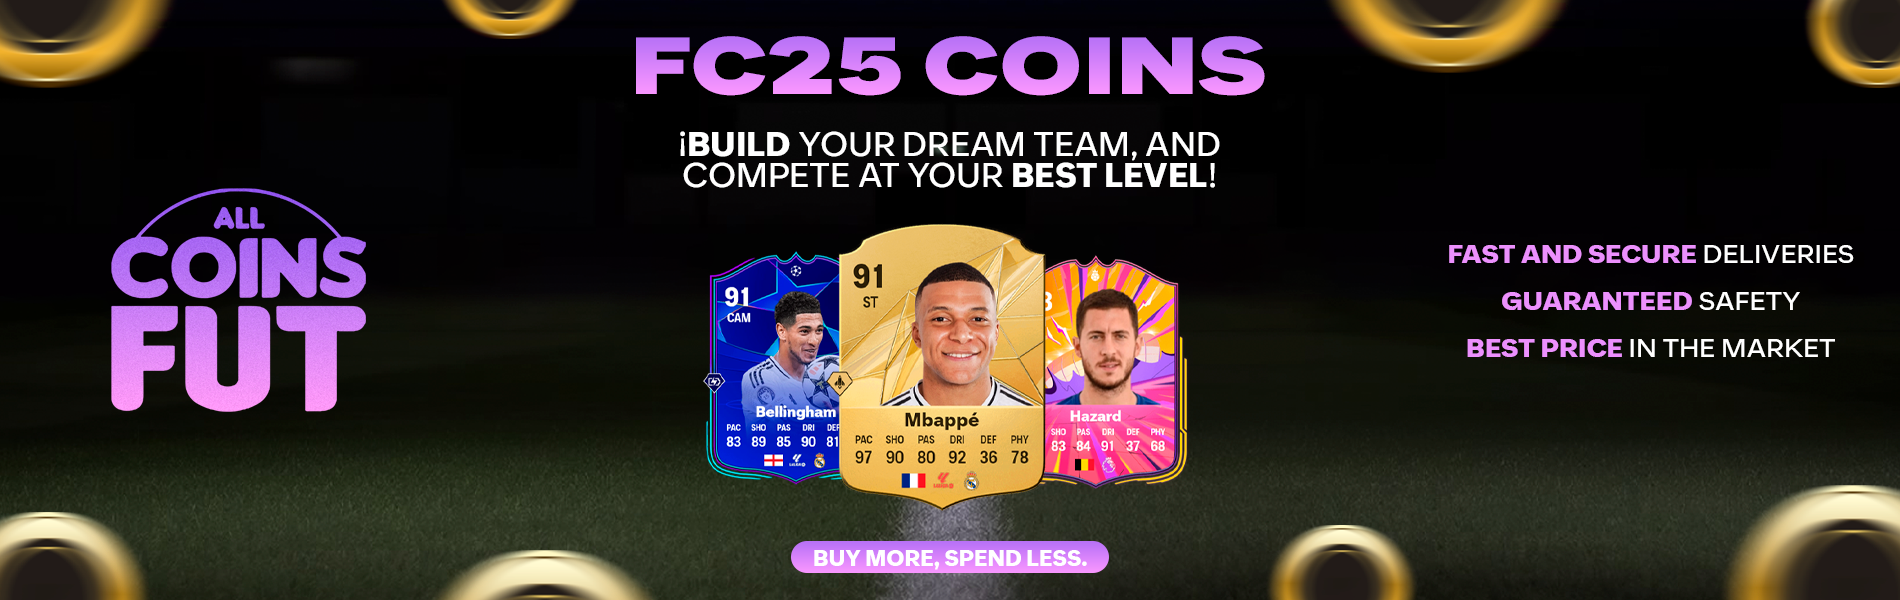
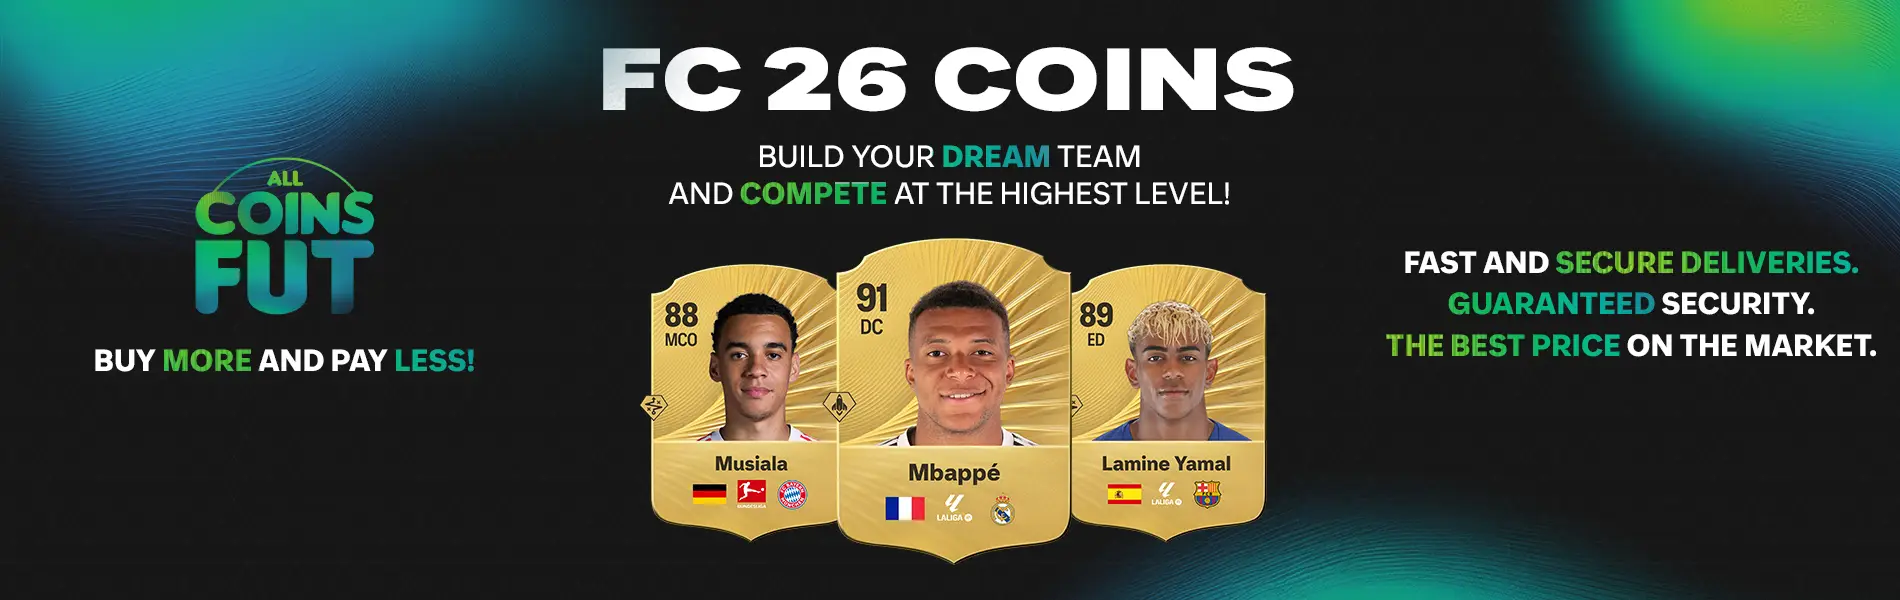
new colors

diff --git a/src/GiftLogo.js b/src/GiftLogo.js
@@ -1,5 +1,5 @@
 export default function GiftLogo() {
     return (
-        <svg width="20px" height="20px" viewBox="0 0 24 24" fill="none" xmlns="http://www.w3.org/2000/svg"><g id="SVGRepo_bgCarrier" stroke-width="0"></g><g id="SVGRepo_tracerCarrier" stroke-linecap="round" stroke-linejoin="round"></g><g id="SVGRepo_iconCarrier"> <path d="M12 7V20M12 7H8.46429C7.94332 7 7.4437 6.78929 7.07533 6.41421C6.70695 6.03914 6.5 5.53043 6.5 5C6.5 4.46957 6.70695 3.96086 7.07533 3.58579C7.4437 3.21071 7.94332 3 8.46429 3C11.2143 3 12 7 12 7ZM12 7H15.5357C16.0567 7 16.5563 6.78929 16.9247 6.41421C17.293 6.03914 17.5 5.53043 17.5 5C17.5 4.46957 17.293 3.96086 16.9247 3.58579C16.5563 3.21071 16.0567 3 15.5357 3C12.7857 3 12 7 12 7ZM5 12H19V17.8C19 18.9201 19 19.4802 18.782 19.908C18.5903 20.2843 18.2843 20.5903 17.908 20.782C17.4802 21 16.9201 21 15.8 21H8.2C7.07989 21 6.51984 21 6.09202 20.782C5.71569 20.5903 5.40973 20.2843 5.21799 19.908C5 19.4802 5 18.9201 5 17.8V12ZM4.6 12H19.4C19.9601 12 20.2401 12 20.454 11.891C20.6422 11.7951 20.7951 11.6422 20.891 11.454C21 11.2401 21 10.9601 21 10.4V8.6C21 8.03995 21 7.75992 20.891 7.54601C20.7951 7.35785 20.6422 7.20487 20.454 7.10899C20.2401 7 19.9601 7 19.4 7H4.6C4.03995 7 3.75992 7 3.54601 7.10899C3.35785 7.20487 3.20487 7.35785 3.10899 7.54601C3 7.75992 3 8.03995 3 8.6V10.4C3 10.9601 3 11.2401 3.10899 11.454C3.20487 11.6422 3.35785 11.7951 3.54601 11.891C3.75992 12 4.03995 12 4.6 12Z" stroke="#ffd500" stroke-width="2" stroke-linecap="round" stroke-linejoin="round"></path> </g></svg>
+        <svg width="20px" height="20px" viewBox="0 0 24 24" fill="none" xmlns="http://www.w3.org/2000/svg"><g id="SVGRepo_bgCarrier" stroke-width="0"></g><g id="SVGRepo_tracerCarrier" stroke-linecap="round" stroke-linejoin="round"></g><g id="SVGRepo_iconCarrier"> <path d="M12 7V20M12 7H8.46429C7.94332 7 7.4437 6.78929 7.07533 6.41421C6.70695 6.03914 6.5 5.53043 6.5 5C6.5 4.46957 6.70695 3.96086 7.07533 3.58579C7.4437 3.21071 7.94332 3 8.46429 3C11.2143 3 12 7 12 7ZM12 7H15.5357C16.0567 7 16.5563 6.78929 16.9247 6.41421C17.293 6.03914 17.5 5.53043 17.5 5C17.5 4.46957 17.293 3.96086 16.9247 3.58579C16.5563 3.21071 16.0567 3 15.5357 3C12.7857 3 12 7 12 7ZM5 12H19V17.8C19 18.9201 19 19.4802 18.782 19.908C18.5903 20.2843 18.2843 20.5903 17.908 20.782C17.4802 21 16.9201 21 15.8 21H8.2C7.07989 21 6.51984 21 6.09202 20.782C5.71569 20.5903 5.40973 20.2843 5.21799 19.908C5 19.4802 5 18.9201 5 17.8V12ZM4.6 12H19.4C19.9601 12 20.2401 12 20.454 11.891C20.6422 11.7951 20.7951 11.6422 20.891 11.454C21 11.2401 21 10.9601 21 10.4V8.6C21 8.03995 21 7.75992 20.891 7.54601C20.7951 7.35785 20.6422 7.20487 20.454 7.10899C20.2401 7 19.9601 7 19.4 7H4.6C4.03995 7 3.75992 7 3.54601 7.10899C3.35785 7.20487 3.20487 7.35785 3.10899 7.54601C3 7.75992 3 8.03995 3 8.6V10.4C3 10.9601 3 11.2401 3.10899 11.454C3.20487 11.6422 3.35785 11.7951 3.54601 11.891C3.75992 12 4.03995 12 4.6 12Z" stroke="#2bff00" stroke-width="2" stroke-linecap="round" stroke-linejoin="round"></path> </g></svg>
     )
 }

diff --git a/src/Nav.js b/src/Nav.js
@@ -38,7 +38,7 @@ export default function Nav() {
                     </img>
                 </a>
                 <button onClick={() => switchLanguage()} className="text-p1 bg-p1 flex w-28 gap-2 items-center justify-center bg-opacity-25 hover:bg-opacity-80 hover:text-white transition-all duration-75 p-3">
-                        <svg width="20px" height="20px" viewBox="0 0 24 24" role="img" xmlns="http://www.w3.org/2000/svg" aria-labelledby="languageIconTitle" stroke="#BE54E3" stroke-width="1" stroke-linecap="square" stroke-linejoin="miter" fill="none" color="#000000"><g id="SVGRepo_bgCarrier" stroke-width="0"></g><g id="SVGRepo_tracerCarrier" stroke-linecap="round" stroke-linejoin="round"></g><g id="SVGRepo_iconCarrier"> <title id="languageIconTitle">Language</title> <circle cx="12" cy="12" r="10"></circle> <path stroke-linecap="round" d="M12,22 C14.6666667,19.5757576 16,16.2424242 16,12 C16,7.75757576 14.6666667,4.42424242 12,2 C9.33333333,4.42424242 8,7.75757576 8,12 C8,16.2424242 9.33333333,19.5757576 12,22 Z"></path> <path stroke-linecap="round" d="M2.5 9L21.5 9M2.5 15L21.5 15"></path> </g></svg>
+                        <svg width="20px" height="20px" viewBox="0 0 24 24" role="img" xmlns="http://www.w3.org/2000/svg" aria-labelledby="languageIconTitle" stroke="#12aa81" stroke-width="1" stroke-linecap="square" stroke-linejoin="miter" fill="none" color="#ffffff"><g id="SVGRepo_bgCarrier" stroke-width="0"></g><g id="SVGRepo_tracerCarrier" stroke-linecap="round" stroke-linejoin="round"></g><g id="SVGRepo_iconCarrier"> <title id="languageIconTitle">Language</title> <circle cx="12" cy="12" r="10"></circle> <path stroke-linecap="round" d="M12,22 C14.6666667,19.5757576 16,16.2424242 16,12 C16,7.75757576 14.6666667,4.42424242 12,2 C9.33333333,4.42424242 8,7.75757576 8,12 C8,16.2424242 9.33333333,19.5757576 12,22 Z"></path> <path stroke-linecap="round" d="M2.5 9L21.5 9M2.5 15L21.5 15"></path> </g></svg>
                         {language === "es" ? "Español" : "English"}
                 </button>
 

diff --git a/src/AboutUs.js b/src/AboutUs.js
@@ -15,7 +15,7 @@ export default function AboutUs() {
           <>
             <div className="flex flex-col sm:flex-row w-4/5 items-center justify-center gap-4">
               <p className="mb-4 w-full text-left text-3xl sm:p-8">
-                We started with this project <strong>more than 8 years ago</strong>, in FIFA 18. We started with a PlayStation console, 
+                We started with this project <strong>more than 9 years ago</strong>, in FIFA 18. We started with a PlayStation console, 
                 playing and getting our own coins all day, and selling them privately to friends.
               </p>
 
@@ -93,7 +93,7 @@ export default function AboutUs() {
           <>
           <div className="flex flex-col sm:flex-row w-4/5 items-center justify-start gap-4">
                 <p className="mb-4 w-full text-left text-3xl sm:p-8">
-                  Comenzamos con este proyecto hace <strong>más de 8 años</strong>, en FIFA 18. Todo inició con una PlayStation, 
+                  Comenzamos con este proyecto hace <strong>más de 9 años</strong>, en FIFA 18. Todo inició con una PlayStation, 
                   jugando y consiguiendo nuestras propias monedas durante todo el día, para luego venderlas de manera particular 
                   a amigos y conocidos.
                 </p>

diff --git a/src/Translations.js b/src/Translations.js
@@ -67,9 +67,9 @@ const translations = {
     "sellCoins" : "To start selling your coins, please contact us through WhatsApp.",
     "aboutUs" : "About Us",
     "reason1": "+9.000 sales made",
-    "reason2": "+8 years of experience",
+    "reason2": "+9 years of experience",
     "reason3": "+3.400 satisfied customers",
-    "reason4": "+1000 Millon coins delivered",
+    "reason4": "+1800 Millon coins delivered",
     "paso" : "STEP"
 },
   es: {
@@ -137,9 +137,9 @@ const translations = {
       "sellCoins" : "Para comenzar a vender tus monedas, por favor contactanos a través de WhatsApp.",
       "aboutUs" : "Sobre Nosotros",
       "reason1": "+9.000 ventas realizadas",
-      "reason2": "+8 años de experiencia",
+      "reason2": "+9 años de experiencia",
       "reason3": "+3.400 clientes satisfechos",
-      "reason4": "+1000 millones de monedas entregadas",
+      "reason4": "+1800 millones de monedas entregadas",
       "paso" : "PASO"
   }
 };

diff --git a/src/BuyBox.js b/src/BuyBox.js
@@ -217,7 +217,7 @@ export default function BuyBox({
         <span className="flex items-center justify-center gap-4 text-6xl font-bold text-white sm:mb-0">
           {formatPrice(price)} <img src='coin.webp' className='w-12'></img>
         </span>
-        <span className="text-xl font-bold text-yellow-400">
+        <span className="text-xl font-bold text-[#2bff00]">
           {calculateBonusCoins() != null ? (
             <div className='flex items-center justify-center text-2xl'>
               ¡{calculateBonusCoins()} <GiftLogo/> !

diff --git a/src/index.css b/src/index.css
@@ -41,5 +41,5 @@ code {
 
 .p1-gradient {
   background: rgb(190,84,227);
-  background: linear-gradient(336deg, rgba(190,84,227,1) 0%, rgba(144,84,227,1) 55%);
+  background: linear-gradient(336deg, rgb(32, 171, 51) 0%, rgb(35, 107, 78) 55%);
 }

diff --git a/tailwind.config.js b/tailwind.config.js
@@ -6,8 +6,8 @@ module.exports = {
   theme: {
     extend: {    
       colors: {
-      'p1': '#BE54E3',
-      'p2': '#9054E3',
+      'p1': '#12aa81',
+      'p2': '#1e98a7',
     },
   },
 
